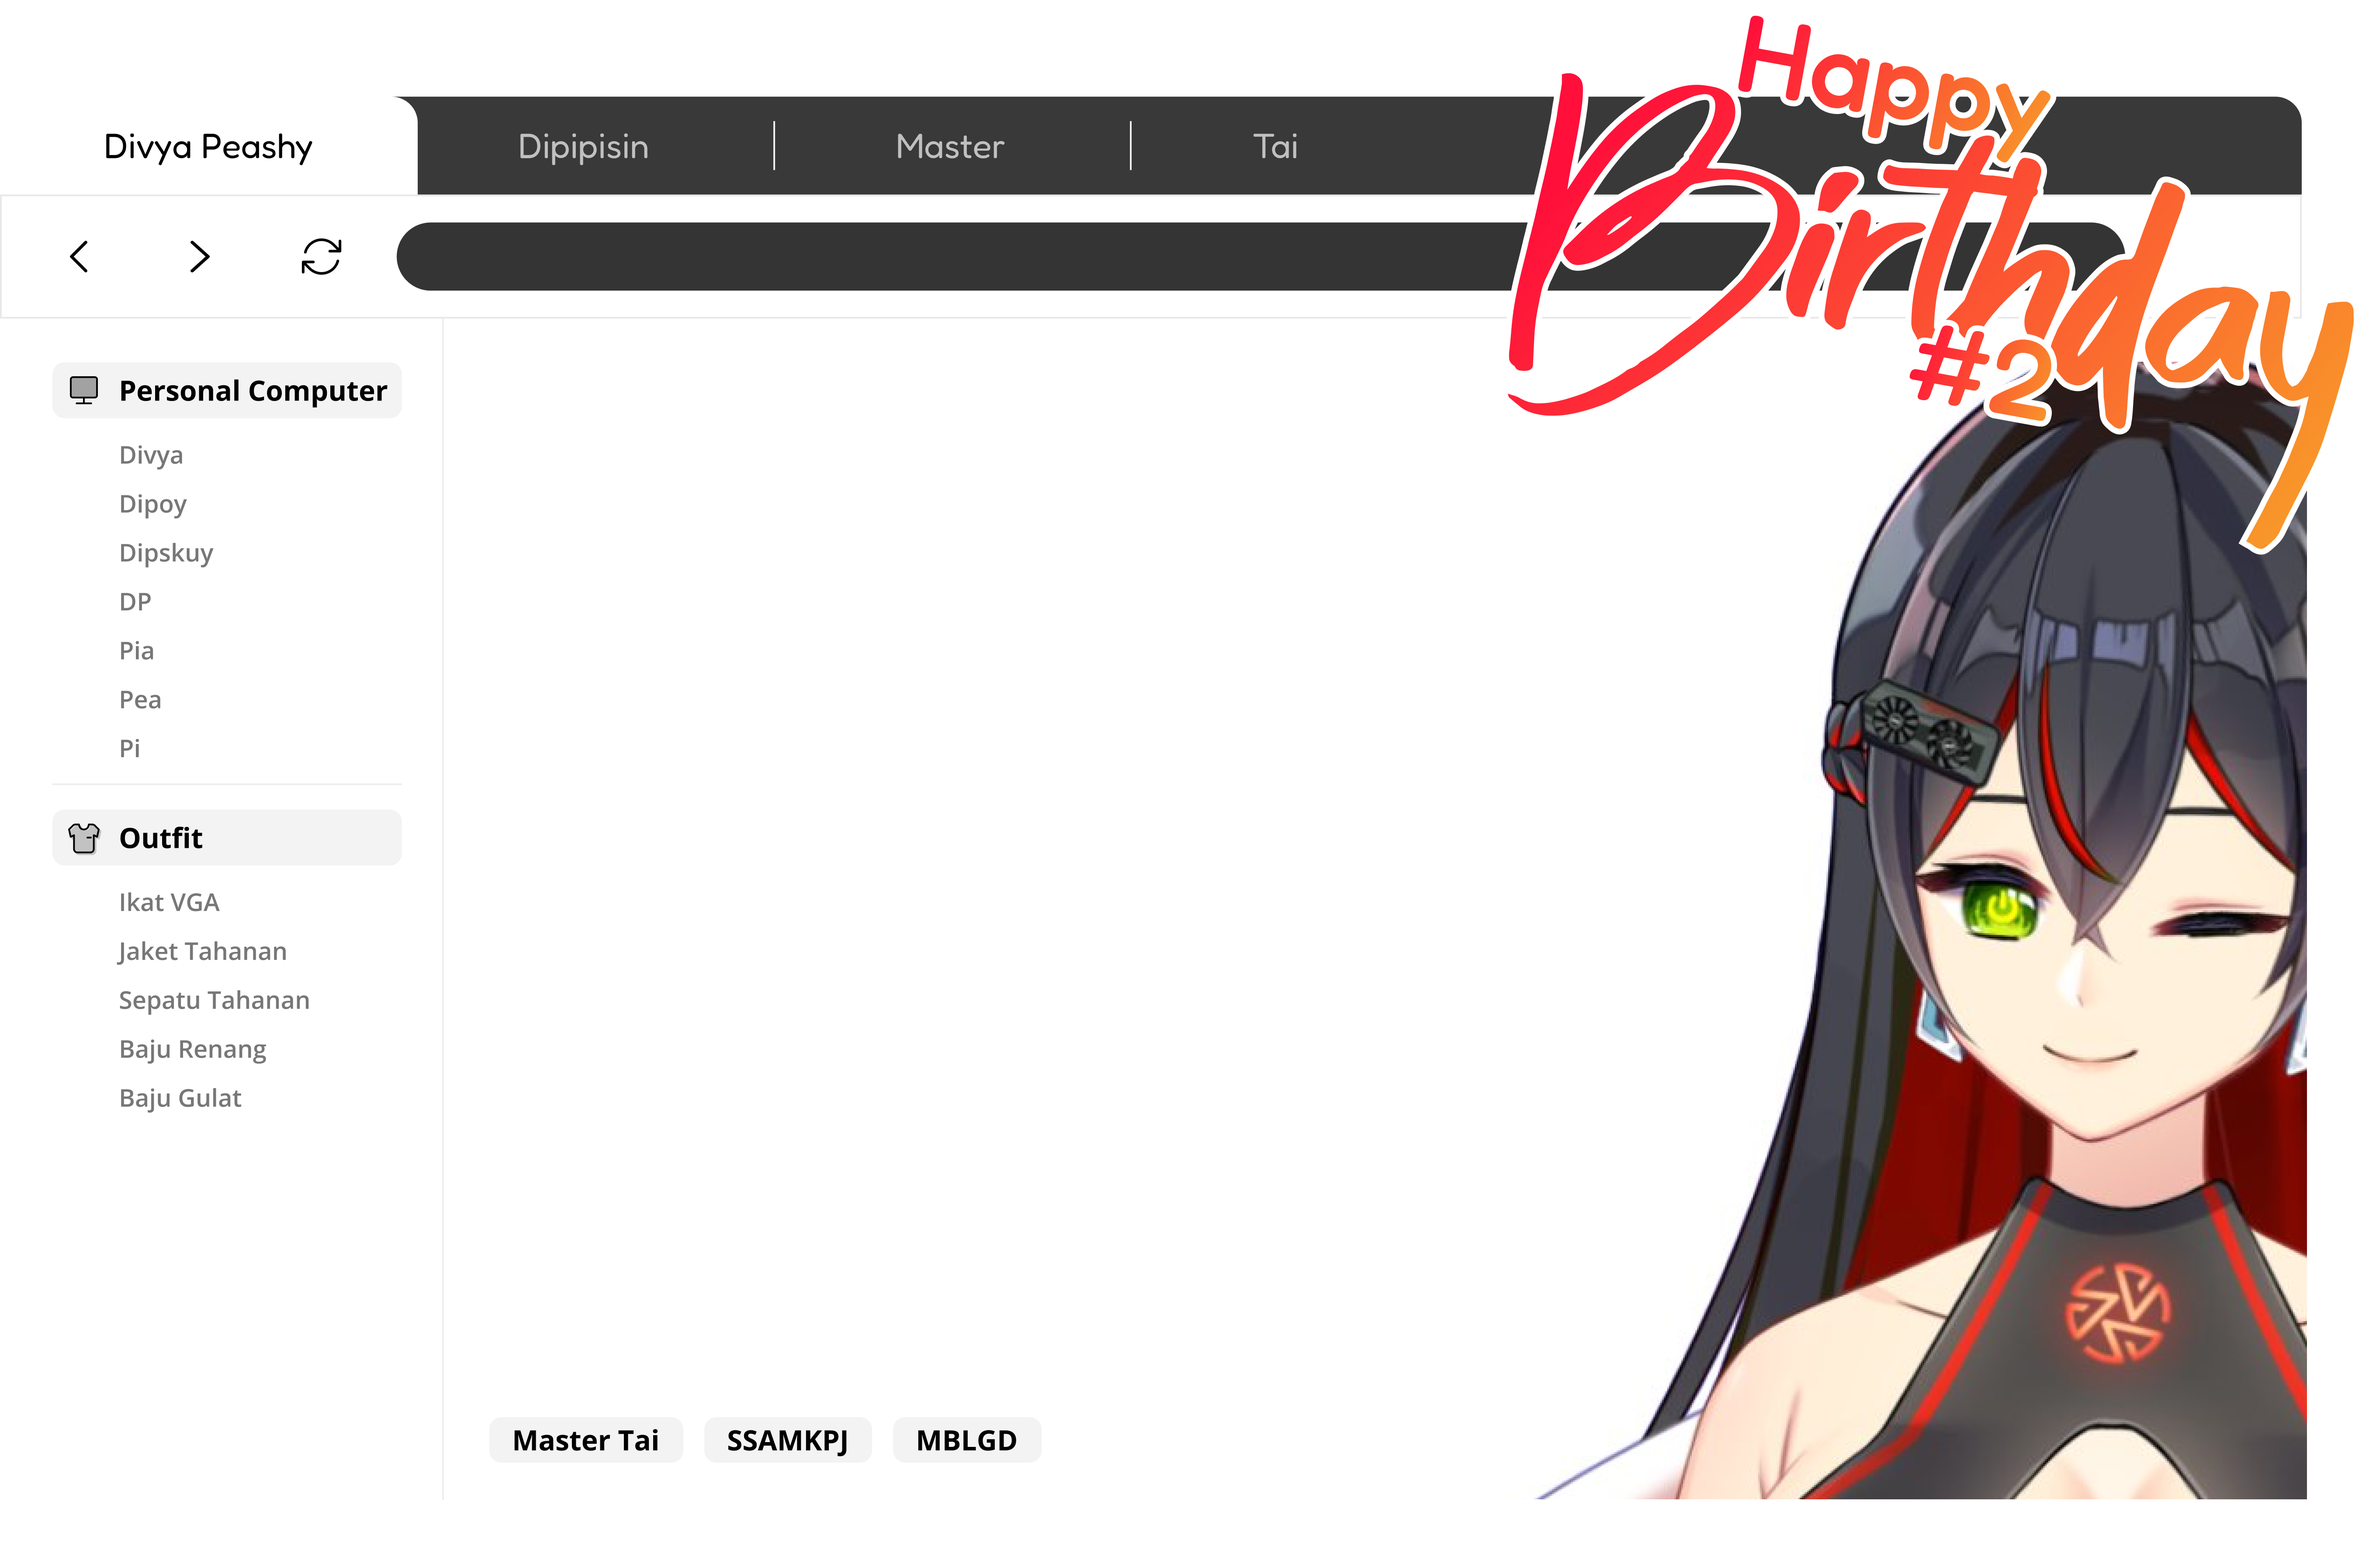
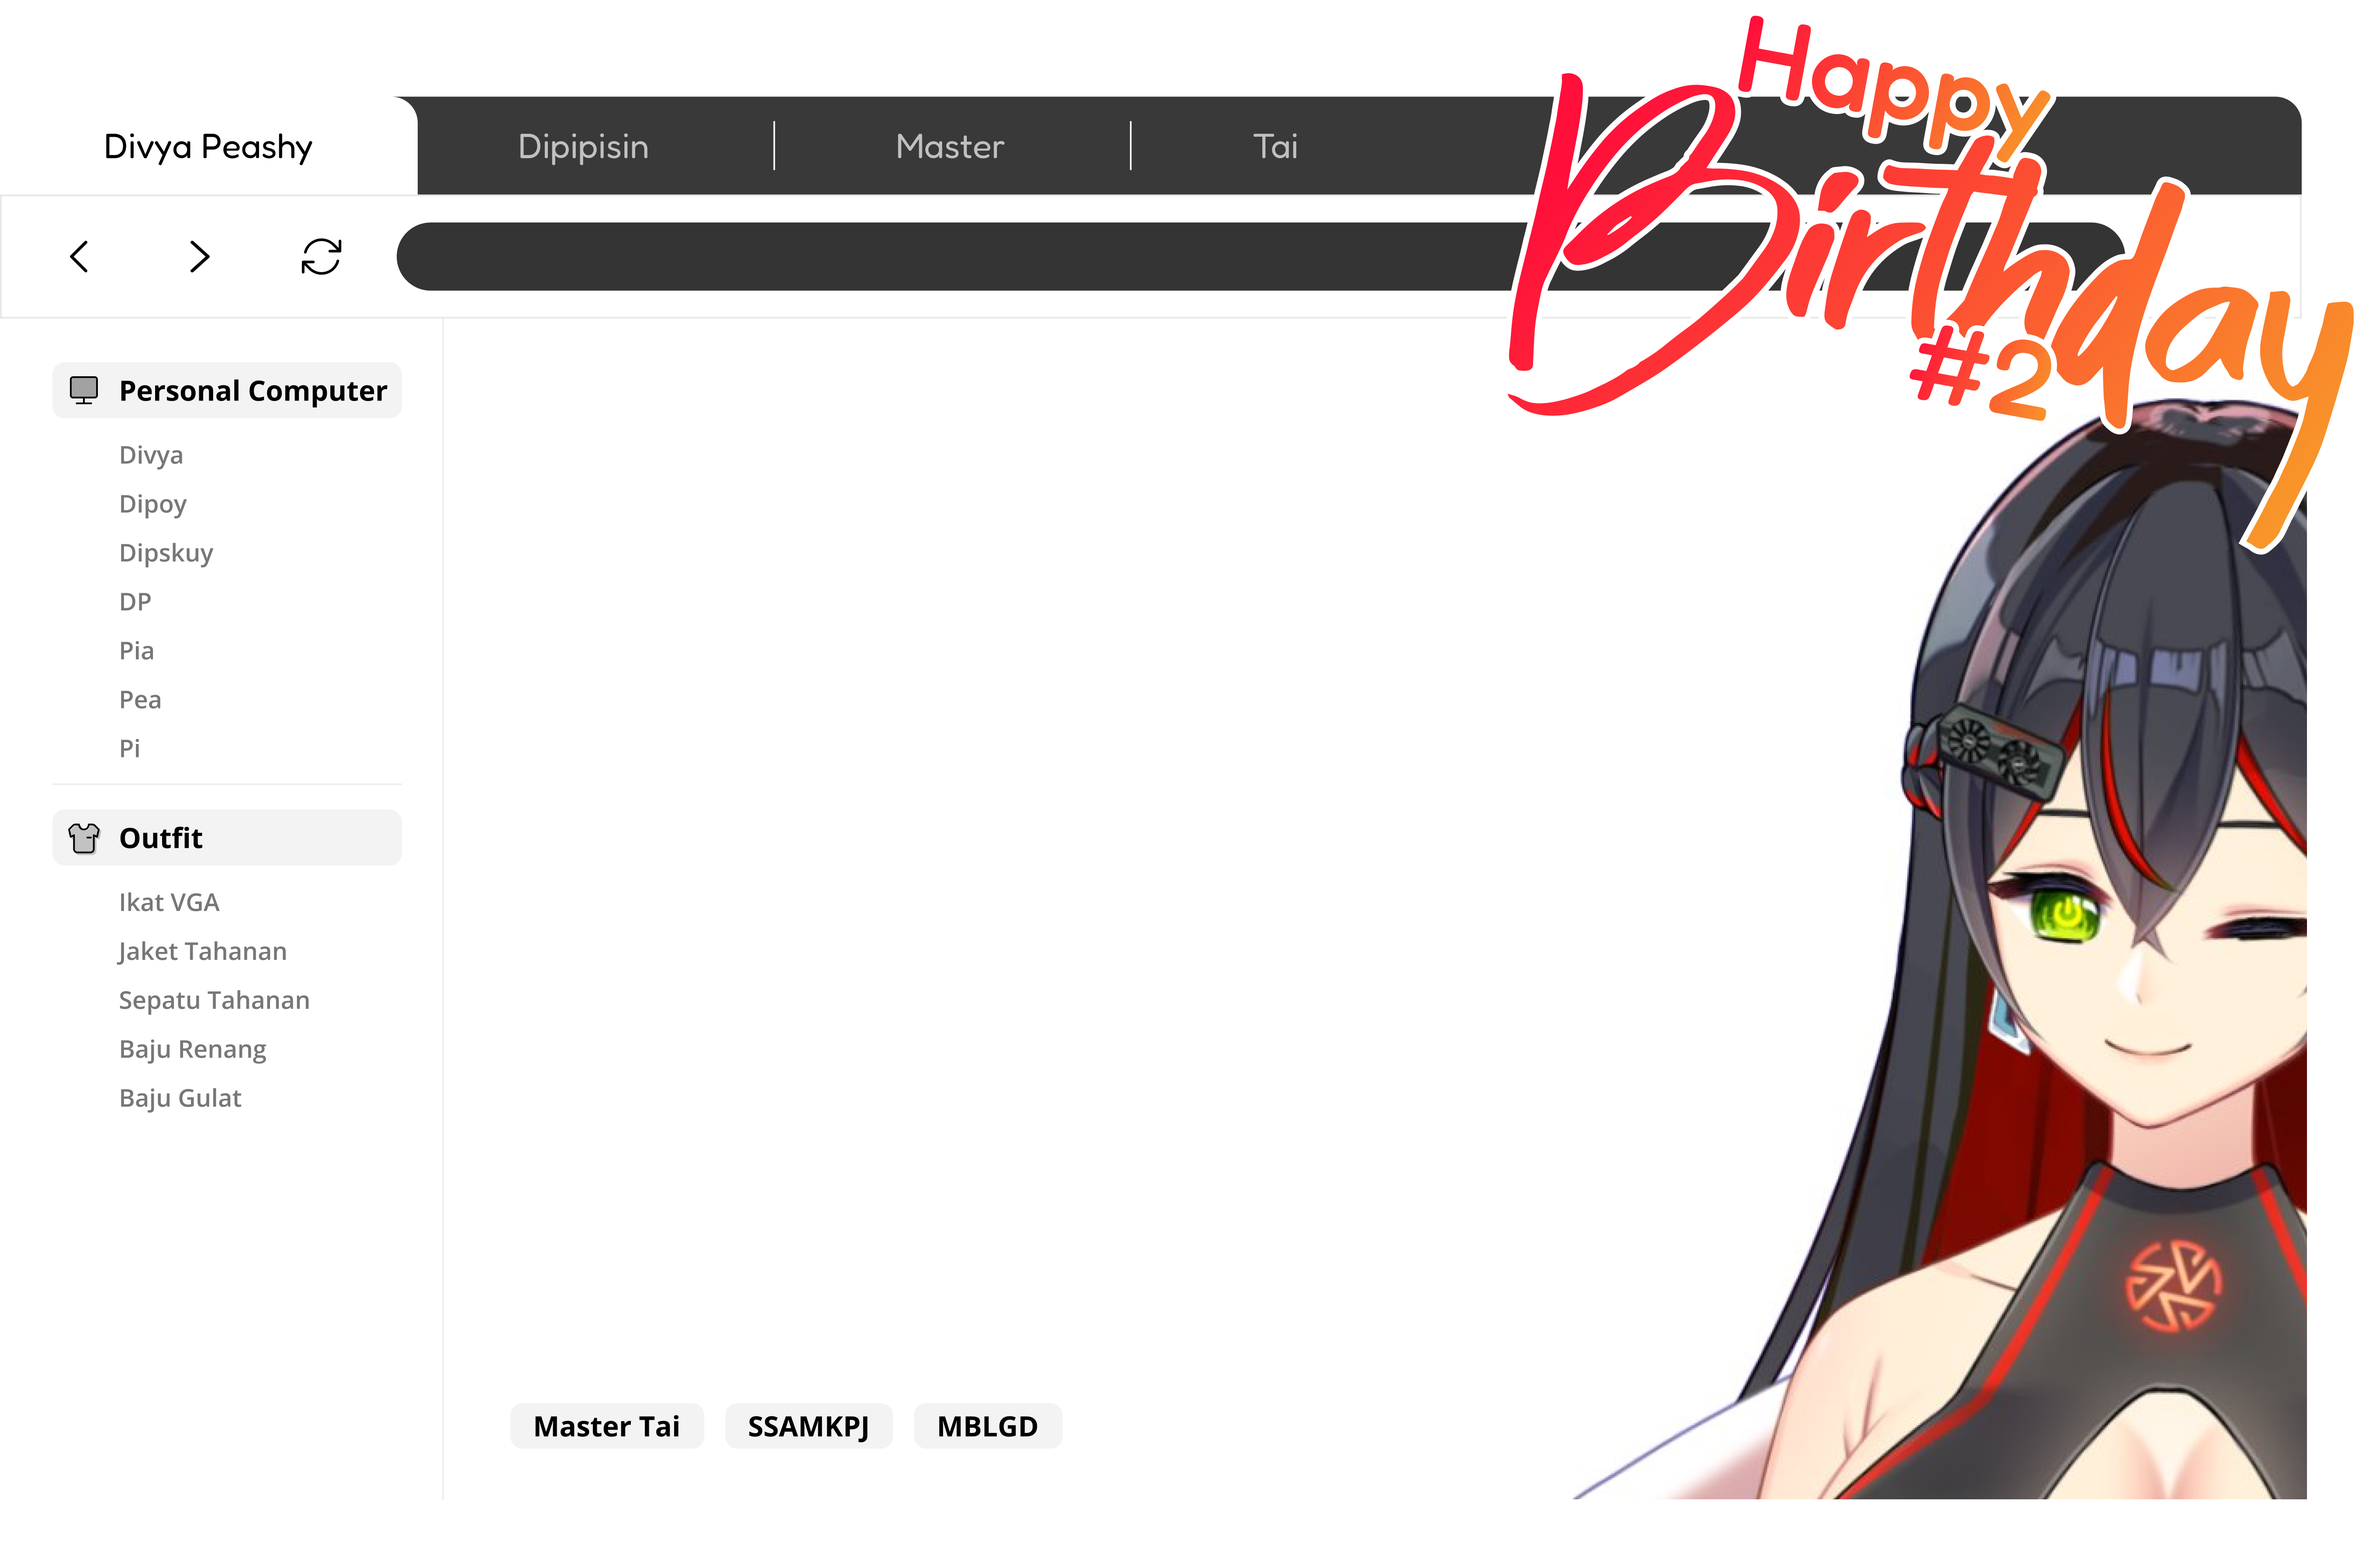
update image

Changed region(s): [[0.6526, 0.217, 0.9945, 0.9921], [0.3108, 0.8991, 0.4351, 0.9611], [0.2175, 0.8991, 0.2797, 0.9611]]

diff --git a/Style.css b/Style.css
@@ -18,7 +18,7 @@
     border-radius: 14px;
     position: relative;
     margin: auto; /* Menempatkan video di tengah horizontal */
-    top: 30%; /* Memindahkan video ke tengah vertikal */
+    top: 28%; /* Memindahkan video ke tengah vertikal */
     transform: translateY(-50%); /* Menggeser video ke atas sejauh setengah dari tingginya */
     box-shadow: 0 0 0 3px rgb(255, 95, 55); /* Menambahkan outline stroke warna hitam */
 }
